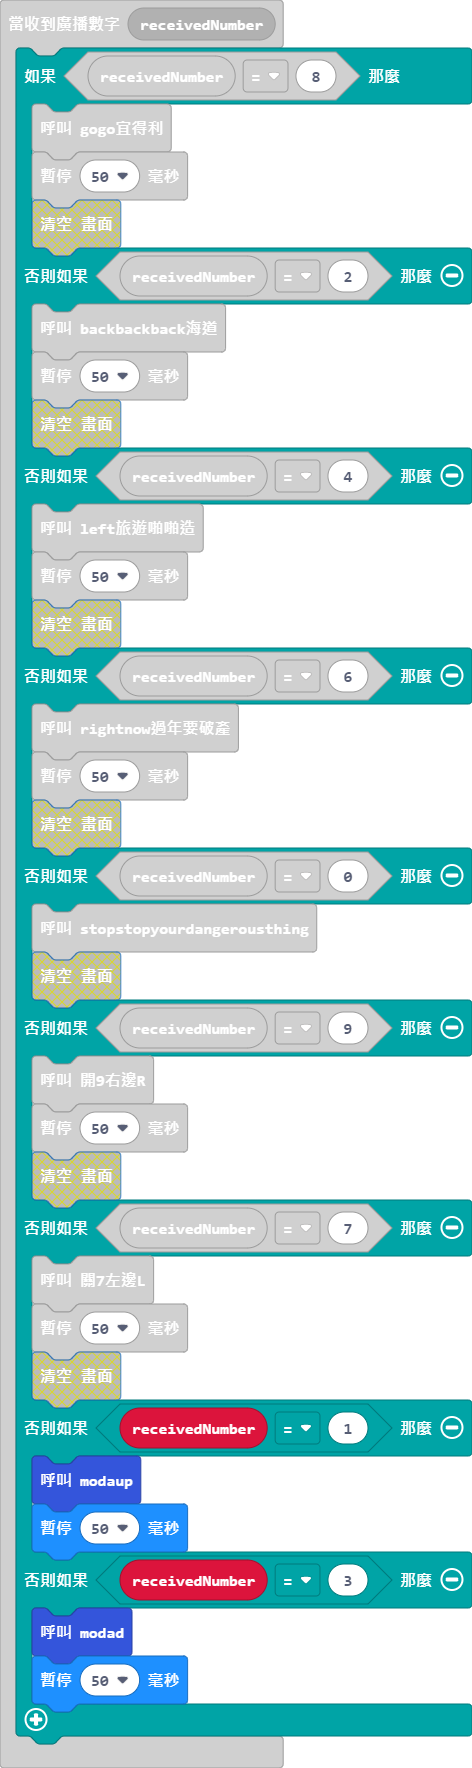
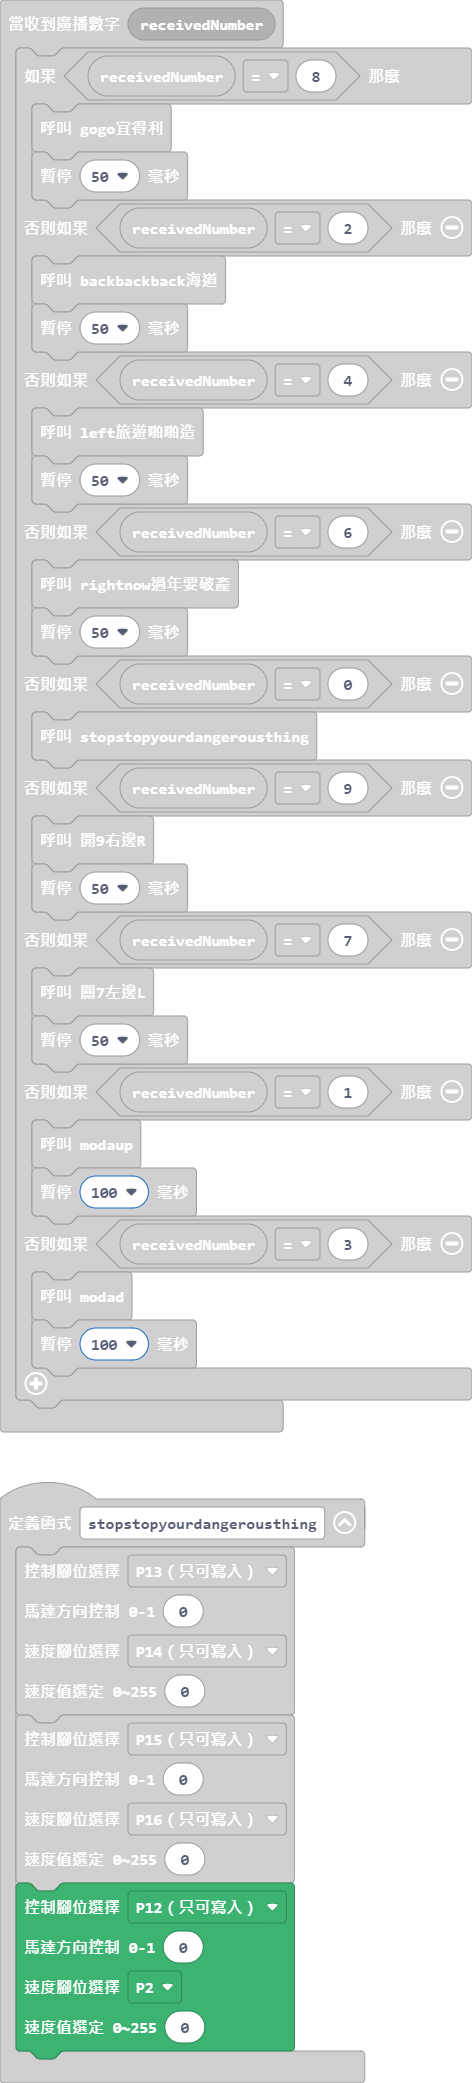
更新 main.blocks, main.ts

diff --git a/main.ts b/main.ts
@@ -44,10 +44,10 @@ radio.onReceivedNumber(function (receivedNumber) {
         basic.pause(50)
     } else if (receivedNumber == 1) {
         modaup()
-        basic.pause(50)
+        basic.pause(100)
     } else if (receivedNumber == 3) {
         modad()
-        basic.pause(50)
+        basic.pause(100)
     }
 })
 function 開9右邊R () {
@@ -93,6 +93,12 @@ function stopstopyourdangerousthing () {
     AnalogPin.P15,
     0,
     AnalogPin.P16,
+    0
+    )
+    sensors.DDMmotor(
+    AnalogPin.P12,
+    0,
+    AnalogPin.P2,
     0
     )
 }
